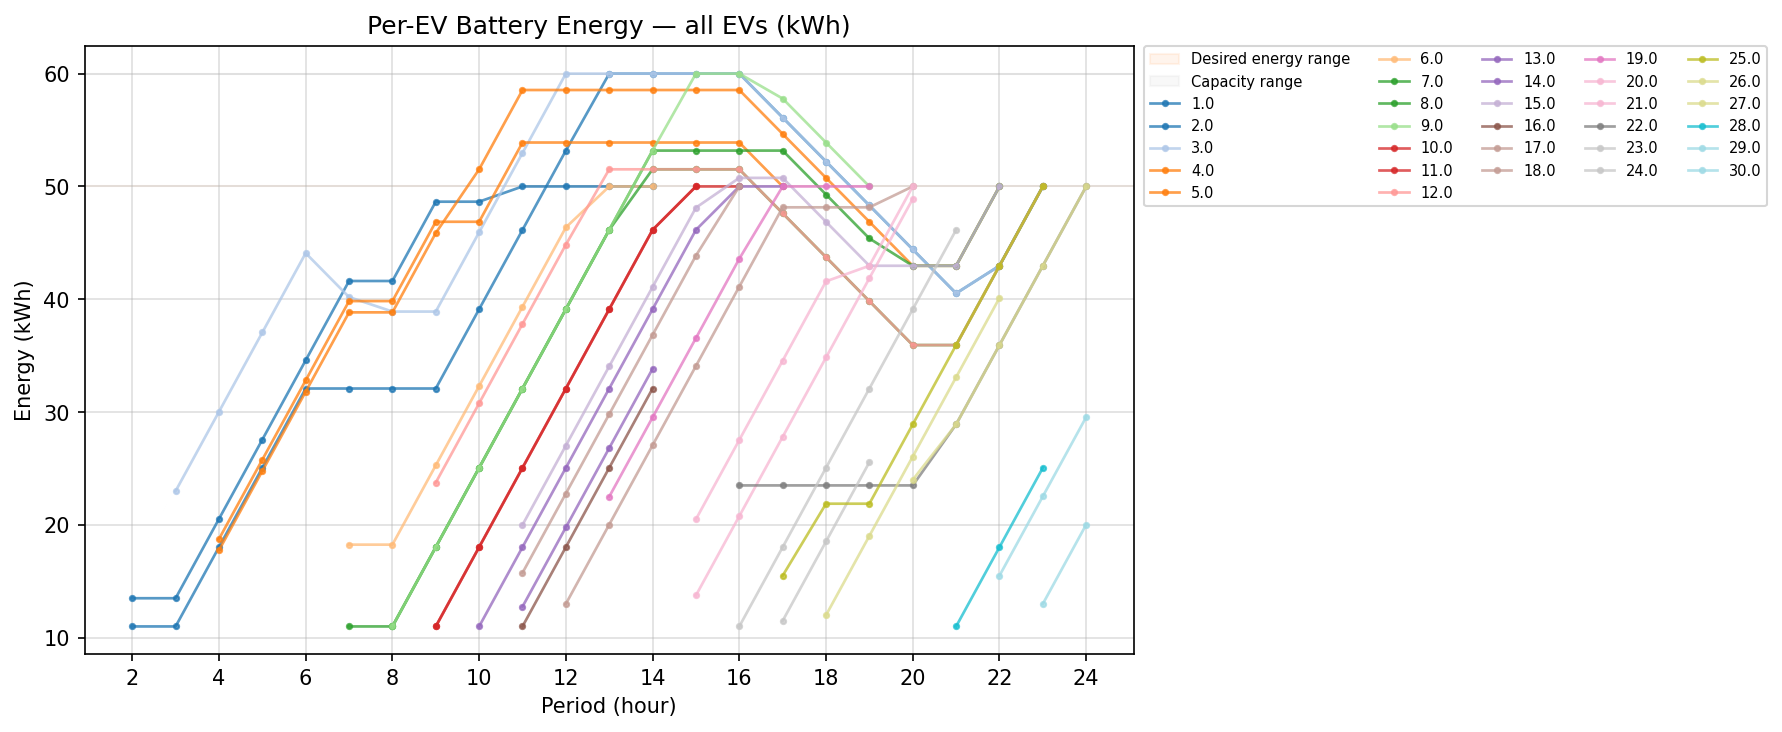
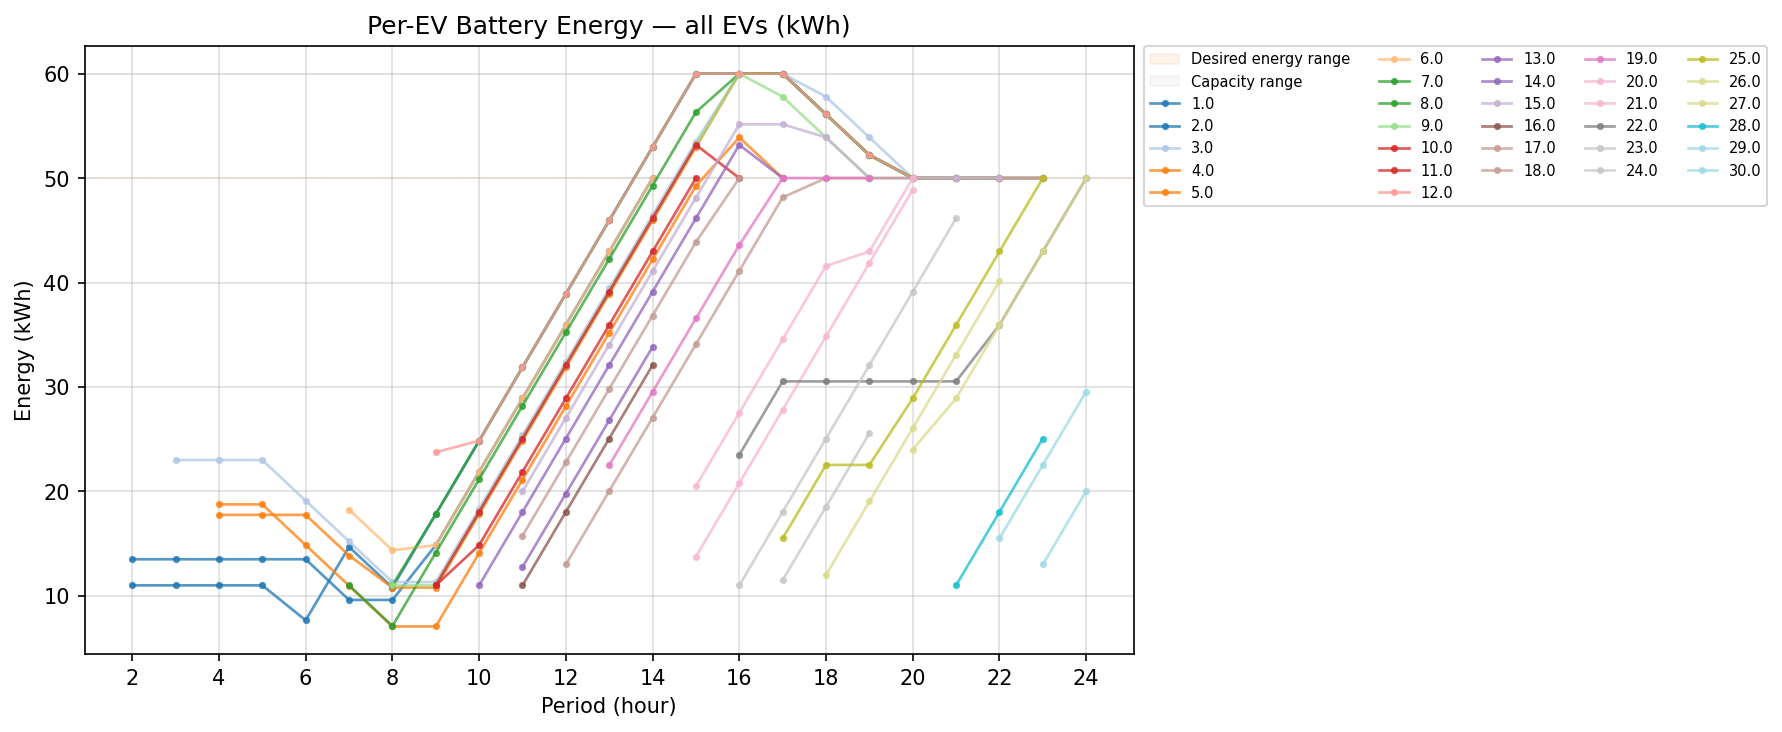
commit

diff --git a/scheduler/model.py b/scheduler/model.py
@@ -6,6 +6,11 @@ Node assignment pre-step + LP-based EV charging / V2G scheduler.
 Feasibility guarantees (vs previous version)
 ─────────────────────────────────────────────
 assign_ev_nodes
+  • Nodes further than max_distance grid units from an EV are excluded from
+    both the primary scoring pass and the fallback pass.  If no node falls
+    within range (edge case), the constraint is relaxed with a warning rather
+    than leaving the EV unassigned.
+
   • Fallback now selects the node with the most remaining energy headroom
     over the EV's active window — not just the least-populated node.
   • Committed power is updated even for fallback assignments so subsequent
@@ -34,8 +39,6 @@ import pandas as pd
 
 
 # ── Penalty weight for soft constraints ───────────────────────────────────────
-# Large enough to dominate the normalised cost/carbon objective, small enough
-# to keep CBC numerically well-conditioned.
 PENALTY: float = 1e6
 
 
@@ -60,31 +63,58 @@ def assign_ev_nodes(
     max_evs_per_node: int | None = None,   # kept for API compat, ignored
     grid_cap_kw:      float = 50.0,
     interval_hours:   float = 1.0,
+    node_positions:   dict[str, tuple[float, float]] | None = None,
+    max_distance:     float | None = 3.5,
 ) -> tuple[dict, dict]:
     """
-    Capacity-aware greedy node assignment.
+    Capacity-aware greedy node assignment with optional distance cap.
+
+    DISTANCE FILTER  ← new
+    ───────────────
+    Before scoring, each (EV, node) pair is checked against max_distance.
+    Nodes further than max_distance grid units from the EV are skipped in
+    both the primary and fallback passes.  If no node is reachable (edge
+    case), the distance constraint is relaxed for that EV with a warning.
 
     PRIMARY PASS
     ────────────
-    Score every (EV, node) pair; sort ascending (cheapest + greenest first).
-    Assign greedily subject to TWO checks:
+    Score every eligible (EV, node) pair; sort ascending (cheapest + greenest
+    first).  Assign greedily subject to TWO checks:
 
       1. Peak-power: committed[node, t] + ev.max_charging_power ≤ grid_cap_kw
          for every active slot t.
       2. Energy-throughput: remaining deliverable energy at the node ≥ energy
          the EV still needs (accounts for charging efficiency).
 
-    FALLBACK PASS  ← fixed vs previous version
+    FALLBACK PASS
     ─────────────
-    Any EV that failed all nodes in the primary pass is assigned to the node
-    that has the *most remaining energy headroom* over the EV's active window.
-    This minimises — rather than ignores — node overload.  Committed power is
-    updated after each fallback so later fallbacks see accurate load.
+    Any EV that failed all nodes in the primary pass is assigned to the
+    reachable node with the most remaining energy headroom.  Committed power
+    is updated after each fallback so later fallbacks see accurate load.
     """
     nodes  = nodal_df.columns.tolist()
     ev_map = {ev.name: ev for ev in evs}
 
-    # Normalisation bounds
+    # ── Distance helper ───────────────────────────────────────────────────────
+    def _within_distance(ev, node: str) -> bool:
+        """True if no distance cap is set, or EV is within max_distance of node."""
+        if max_distance is None or node_positions is None:
+            return True
+        nx, ny = node_positions.get(node, (0.0, 0.0))
+        return math.sqrt((ev.grid_x - nx) ** 2 + (ev.grid_y - ny) ** 2) <= max_distance
+
+    def _reachable_nodes(ev) -> list[str]:
+        """Return nodes within distance cap; fall back to all nodes with warning."""
+        within = [n for n in nodes if _within_distance(ev, n)]
+        if within:
+            return within
+        print(
+            f"  ⚠ EV {ev.name}: no node within max_distance={max_distance} — "
+            f"distance constraint relaxed for this EV."
+        )
+        return nodes
+
+    # ── Normalisation bounds ──────────────────────────────────────────────────
     all_prices_flat = nodal_df.values.flatten()
     p_min, p_max    = float(all_prices_flat.min()), float(all_prices_flat.max())
     p_range         = p_max - p_min + 1e-12
@@ -93,14 +123,13 @@ def assign_ev_nodes(
     c_range         = c_max - c_min + 1e-12
 
     # committed[(node, t)] = sum of max_charging_power for EVs already assigned
-    # to this node whose active window covers period t
     committed: dict[tuple[str, int], float] = {}
 
     assignment_log: dict = {}
     node_counts:    dict[str, int] = {node: 0 for node in nodes}
     assigned:       set[str]       = set()
 
-    # ── Score all (EV, node) pairs ────────────────────────────────────────────
+    # ── Score all eligible (EV, node) pairs ───────────────────────────────────
     candidates: list[tuple[float, str, str]] = []
 
     for ev in evs:
@@ -109,8 +138,10 @@ def assign_ev_nodes(
             assignment_log[ev.name] = {"scores": {}}
             continue
 
+        reachable    = _reachable_nodes(ev)
         node_scores: dict[str, float] = {}
-        for node in nodes:
+
+        for node in reachable:
             score = 0.0
             for t in slots:
                 if t in nodal_df.index:
@@ -132,7 +163,7 @@ def assign_ev_nodes(
         ev    = ev_map[ev_name]
         slots = active_slots(ev, time_list)
 
-        # Check 1 — peak power: no slot exceeds node cap
+        # Check 1 — peak power
         power_ok = all(
             committed.get((node, t), 0.0) + ev.max_charging_power <= grid_cap_kw
             for t in slots
@@ -140,7 +171,7 @@ def assign_ev_nodes(
         if not power_ok:
             continue
 
-        # Check 2 — energy throughput: remaining deliverable ≥ energy needed
+        # Check 2 — energy throughput
         energy_needed = (ev.desired_energy - ev.arrival_energy) / 0.95
         deliverable   = sum(
             (grid_cap_kw - committed.get((node, t), 0.0)) * interval_hours
@@ -149,29 +180,26 @@ def assign_ev_nodes(
         if deliverable < energy_needed - 1e-6:
             continue
 
-        # Assign
         _do_assign(ev, node, slots, committed, assignment_log, node_counts, assigned)
 
-    # ── Fallback pass — headroom-aware ────────────────────────────────────────
-    # For each unassigned EV, pick the node whose total remaining energy
-    # headroom over the EV's active window is largest.  This minimises the
-    # magnitude of any soft-constraint violation in the LP.
+    # ── Fallback pass — headroom-aware, distance-filtered ─────────────────────
     for ev in evs:
         if ev.name in assigned:
             continue
 
         slots = active_slots(ev, time_list)
         if not slots:
-            # EV has no active slots; assign anywhere (LP will zero-out anyway)
             fallback = nodes[0]
             assignment_log[ev.name]["assigned"] = fallback
             ev.node_id = fallback
             node_counts[fallback] += 1
             continue
 
+        reachable     = _reachable_nodes(ev)
         best_node     = None
         best_headroom = -1.0
-        for node in nodes:
+
+        for node in reachable:
             headroom = sum(
                 max(0.0, grid_cap_kw - committed.get((node, t), 0.0)) * interval_hours
                 for t in slots
@@ -258,22 +286,17 @@ def run_scheduler(
         lowBound=0, cat="Continuous",
     )
 
-    # ── Group EVs by node (needed before building slack keys) ─────────────────
+    # ── Group EVs by node ─────────────────────────────────────────────────────
     node_ev_map: dict[str, list] = {}
     for ev in evs:
         node_ev_map.setdefault(ev.node_id, []).append(ev)
 
     # ── Slack variables ───────────────────────────────────────────────────────
-    # slack_soc[ev.name]  : kWh shortfall at departure  (SOC soft constraint)
     slack_soc = lp.LpVariable.dicts(
         "slack_soc", [ev.name for ev in evs], lowBound=0,
     )
-
-    # slack_cap[(node, t)] : kW excess above node cap  (power soft constraint)
     cap_keys  = [(node, t) for node in node_ev_map for t in time_list]
     slack_cap = lp.LpVariable.dicts("slack_cap", cap_keys, lowBound=0)
-
-    # slack_carbon : g CO₂ excess above carbon cap  (carbon soft constraint)
     slack_carbon = lp.LpVariable("slack_carbon", lowBound=0)
 
     # ── Price / carbon normalisation ──────────────────────────────────────────
@@ -296,7 +319,7 @@ def run_scheduler(
 
     deg_norm = deg_cost / (p_range + 1e-12)
 
-    # ── Objective: cost + carbon + degradation + soft-constraint penalties ────
+    # ── Objective ─────────────────────────────────────────────────────────────
     model += (
         lp.lpSum(
             (
@@ -307,11 +330,8 @@ def run_scheduler(
             for ev in evs
             for t  in time_list
         )
-        # SOC shortfall penalty
         + PENALTY * lp.lpSum(slack_soc[ev.name] for ev in evs)
-        # Node-cap excess penalty
         + PENALTY * lp.lpSum(slack_cap[k] for k in cap_keys)
-        # Carbon-cap excess penalty
         + PENALTY * slack_carbon
     )
 
@@ -367,7 +387,7 @@ def run_scheduler(
                 f"SOC_{ev.name}_{t}",
             )
 
-        # Departure SOC — SOFT via slack_soc
+        # Departure SOC — soft via slack_soc
         model += (
             energy[slots[-1]] + slack_soc[ev.name] >= ev.desired_energy,
             f"DepSOC_{ev.name}",
@@ -388,7 +408,7 @@ def run_scheduler(
     model.solve(lp.PULP_CBC_CMD(msg=0))
     status = lp.LpStatus[model.status]
 
-    # ── Report soft-constraint violations ────────────────────────────────────
+    # ── Report soft-constraint violations ─────────────────────────────────────
     _report_violations(slack_soc, slack_cap, slack_carbon, grid_cap_kw, carbon_cap_fraction)
 
     return c, d, energy_vars, status
@@ -420,7 +440,6 @@ def _report_violations(slack_soc, slack_cap, slack_carbon, grid_cap_kw, carbon_c
             print(f"      EV {ev_name:<6s}  short by {val:.3f} kWh")
 
     if cap_viols:
-        # Summarise by node rather than printing every (node, t) pair
         node_max: dict[str, float] = {}
         for (node, t), val in cap_viols.items():
             node_max[node] = max(node_max.get(node, 0.0), val)

diff --git a/main.py b/main.py
@@ -25,8 +25,9 @@ def main(
     eta_c:               float = 0.95,
     eta_d:               float = 0.95,
     deg_cost:            float = 0.02,
-    grid_cap_kw:         float = 50.0,   # ← updated from 50
+    grid_cap_kw:         float = 75.0,
     interval_hours:      float = 1.0,
+    max_distance:        float | None = 4,   # ← max grid-unit distance EV→node
 ) -> None:
 
     # ── 1. Load data ──────────────────────────────────────────────────────────
@@ -36,6 +37,9 @@ def main(
 
     prices: dict[int, float] = nodal_df.mean(axis=1).to_dict()
     print(f"Loaded {len(evs)} EVs, {len(nodes)} nodes, {len(time_list)} periods.")
+    if max_distance is not None:
+        print(f"Distance cap: {max_distance} grid units  "
+              f"(EVs will not be assigned to nodes further than this.)")
 
     # ── 1a. Grid positions ────────────────────────────────────────────────────
     print("\nCharging node grid positions:")
@@ -54,6 +58,8 @@ def main(
         alpha=alpha, beta=beta,
         grid_cap_kw=grid_cap_kw,
         interval_hours=interval_hours,
+        node_positions=node_positions,
+        max_distance=max_distance,
     )
 
     print("\nNode assignments (optimised):")
@@ -77,8 +83,13 @@ def main(
         d         = dist(ev, node_name)
         dists.append(d)
         nx, ny    = node_positions.get(node_name, ("?", "?"))
+        over_cap  = (
+            f"  ⚠ >{max_distance}"
+            if max_distance is not None and d > max_distance
+            else ""
+        )
         print(f"  EV {ev.name:<3s}  ({ev.grid_x},{ev.grid_y}){'':>5}  "
-              f"{node_name:<40s}  ({nx},{ny}){'':>3}  {d:>6.2f}")
+              f"{node_name:<40s}  ({nx},{ny}){'':>3}  {d:>6.2f}{over_cap}")
     avg_dist_opt = sum(dists) / len(dists)
     print(f"  {'─'*76}")
     print(f"  Fleet average distance (optimised): {avg_dist_opt:.4f} grid units\n")
@@ -141,7 +152,7 @@ def main(
     print(f"  {'Avg EV–node distance':<28} {avg_dist_opt:>12.4f} {avg_dist_base:>12.4f} {pct(avg_dist_opt,avg_dist_base):>8}")
     print("══════════════════════════════════════════════════════════════\n")
 
-    # ── 7. Baseline assignments ───────────────────────────────────────────────
+    # ── 6. Baseline assignments ───────────────────────────────────────────────
     print("Baseline node assignments (closest node):")
     for ev in evs:
         bn    = assignment_log_base[ev.name]["assigned"]
@@ -151,7 +162,7 @@ def main(
               f"  →  {bn:<40s}  ({nx},{ny})  dist={d_:.2f}")
     print(f"  Fleet average distance (baseline): {avg_dist_base:.4f} grid units\n")
 
-    # ── 8. Plots ──────────────────────────────────────────────────────────────
+    # ── 7. Plots ──────────────────────────────────────────────────────────────
     plot_all(
         prices=prices, carbon=carbon, time_list=time_list, evs=evs,
         c=c, d=d, energy_vars=energy_vars,

diff --git a/scheduler/data_loader.py b/scheduler/data_loader.py
@@ -38,11 +38,10 @@ class ChargingNode:
 
 # ── Edit these positions to move nodes on the grid ────────────────────────────
 CHARGING_NODES: list[ChargingNode] = [
-    ChargingNode("CLAP_BUNDLD-APND",            grid_x=2, grid_y=1),
-    ChargingNode("POD_DUTCH1_7_UNIT 1-APND",    grid_x=5, grid_y=4),
-    ChargingNode("POD_SLST13_2_SOLAR1-APND",    grid_x=4, grid_y=3),
-    ChargingNode("ALAMIT_2_PL1X3-APND",         grid_x=2, grid_y=9),
-    ChargingNode("POD_CRSTWD_6_KUMYAY-APND",    grid_x=4, grid_y=7),
+    ChargingNode("CLAP_BUNDLD-APND",            grid_x=3, grid_y=3),
+    ChargingNode("POD_DUTCH1_7_UNIT 1-APND",    grid_x=8, grid_y=3),
+    ChargingNode("POD_SLST13_2_SOLAR1-APND",    grid_x=3, grid_y=8),
+    ChargingNode("ALAMIT_2_PL1X3-APND",         grid_x=8, grid_y=8),
 ]
 
 
@@ -126,7 +125,7 @@ def load_nodal_prices(
 
 
 def load_carbon_intensity(
-    filename: str = "df_fuel_ckan.csv",
+    filename: str = "carbon_intensity.csv",
     periods: int = 24,
 ) -> tuple[dict[int, float], list[int]]:
     """
@@ -135,10 +134,10 @@ def load_carbon_intensity(
     """
     path = os.path.join(DATA_DIR, filename)
     df = pd.read_csv(path)
-    df = df.iloc[300338 : 300338 + periods * 2 : 2].reset_index(drop=True).head(periods)
+    df = df.iloc[:24].reset_index(drop=True)
 
     df["Period"]           = range(1, periods + 1)
-    df["CARBON_INTENSITY"] = df["CARBON_INTENSITY"] / 1_000.0   # g/MWh → g/kWh
+    df["CARBON_INTENSITY"] = df["CARBON_INTENSITY"]*3.6
 
     carbon = dict(zip(df["Period"], df["CARBON_INTENSITY"]))
     return carbon, list(carbon.keys())
